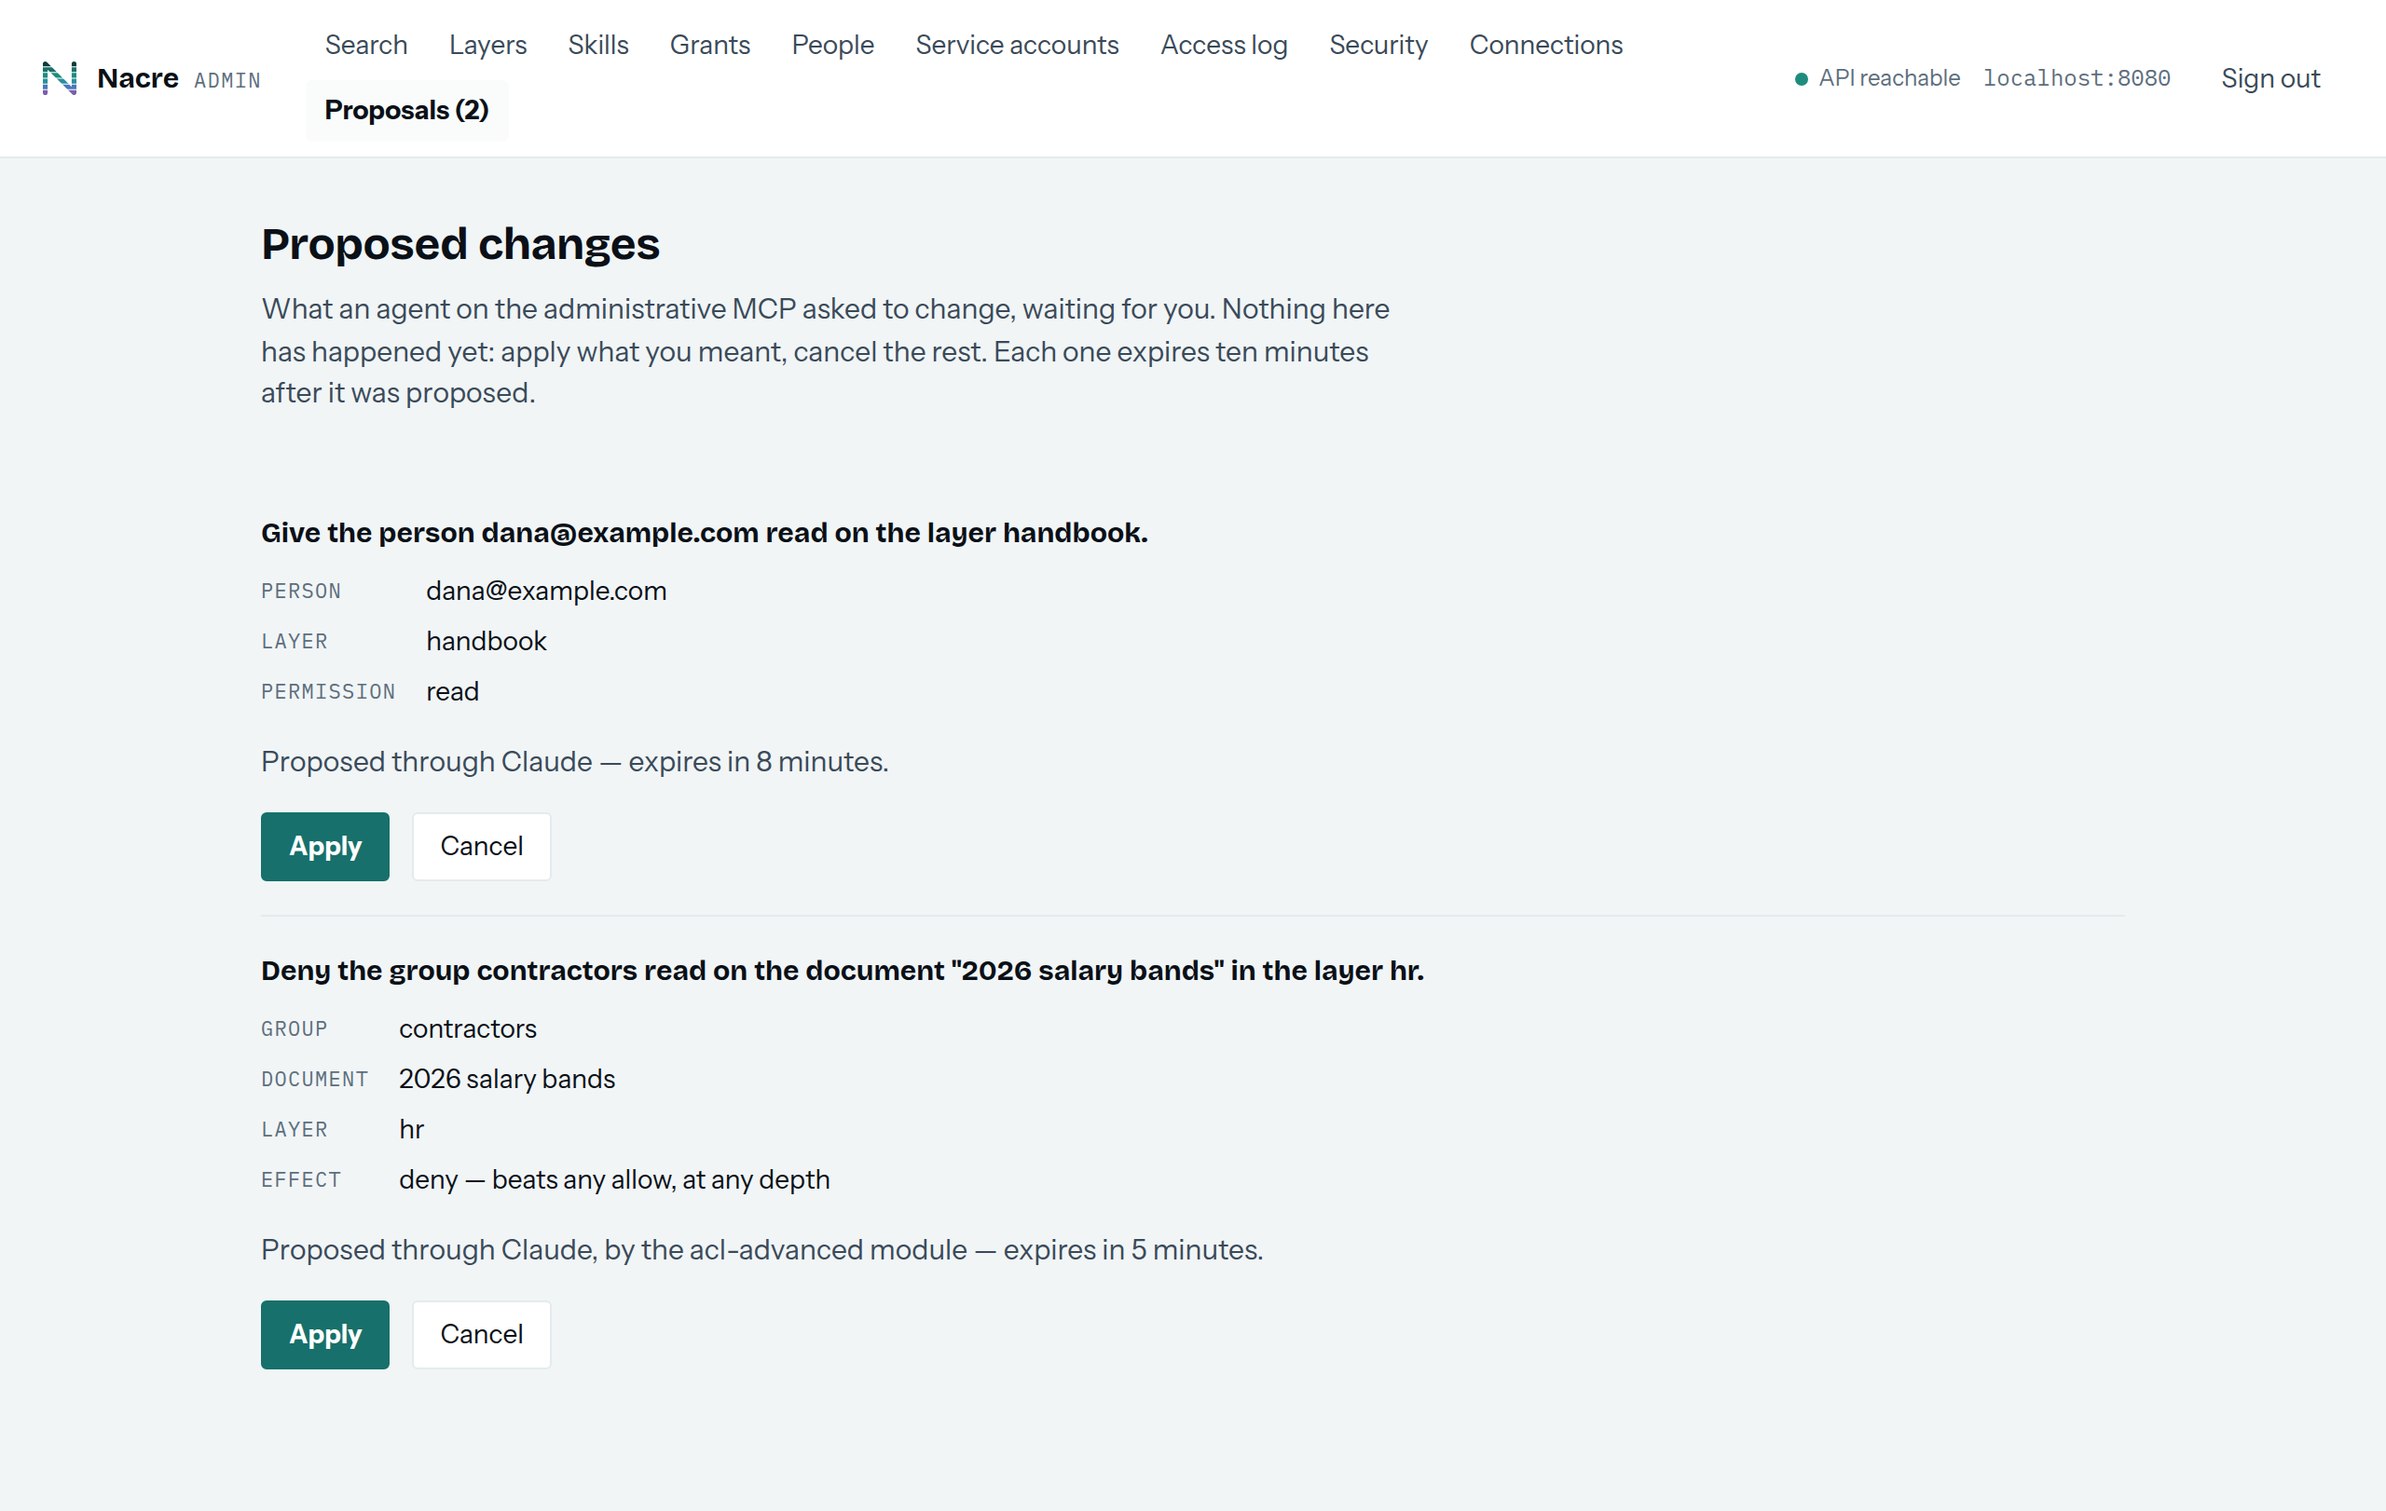
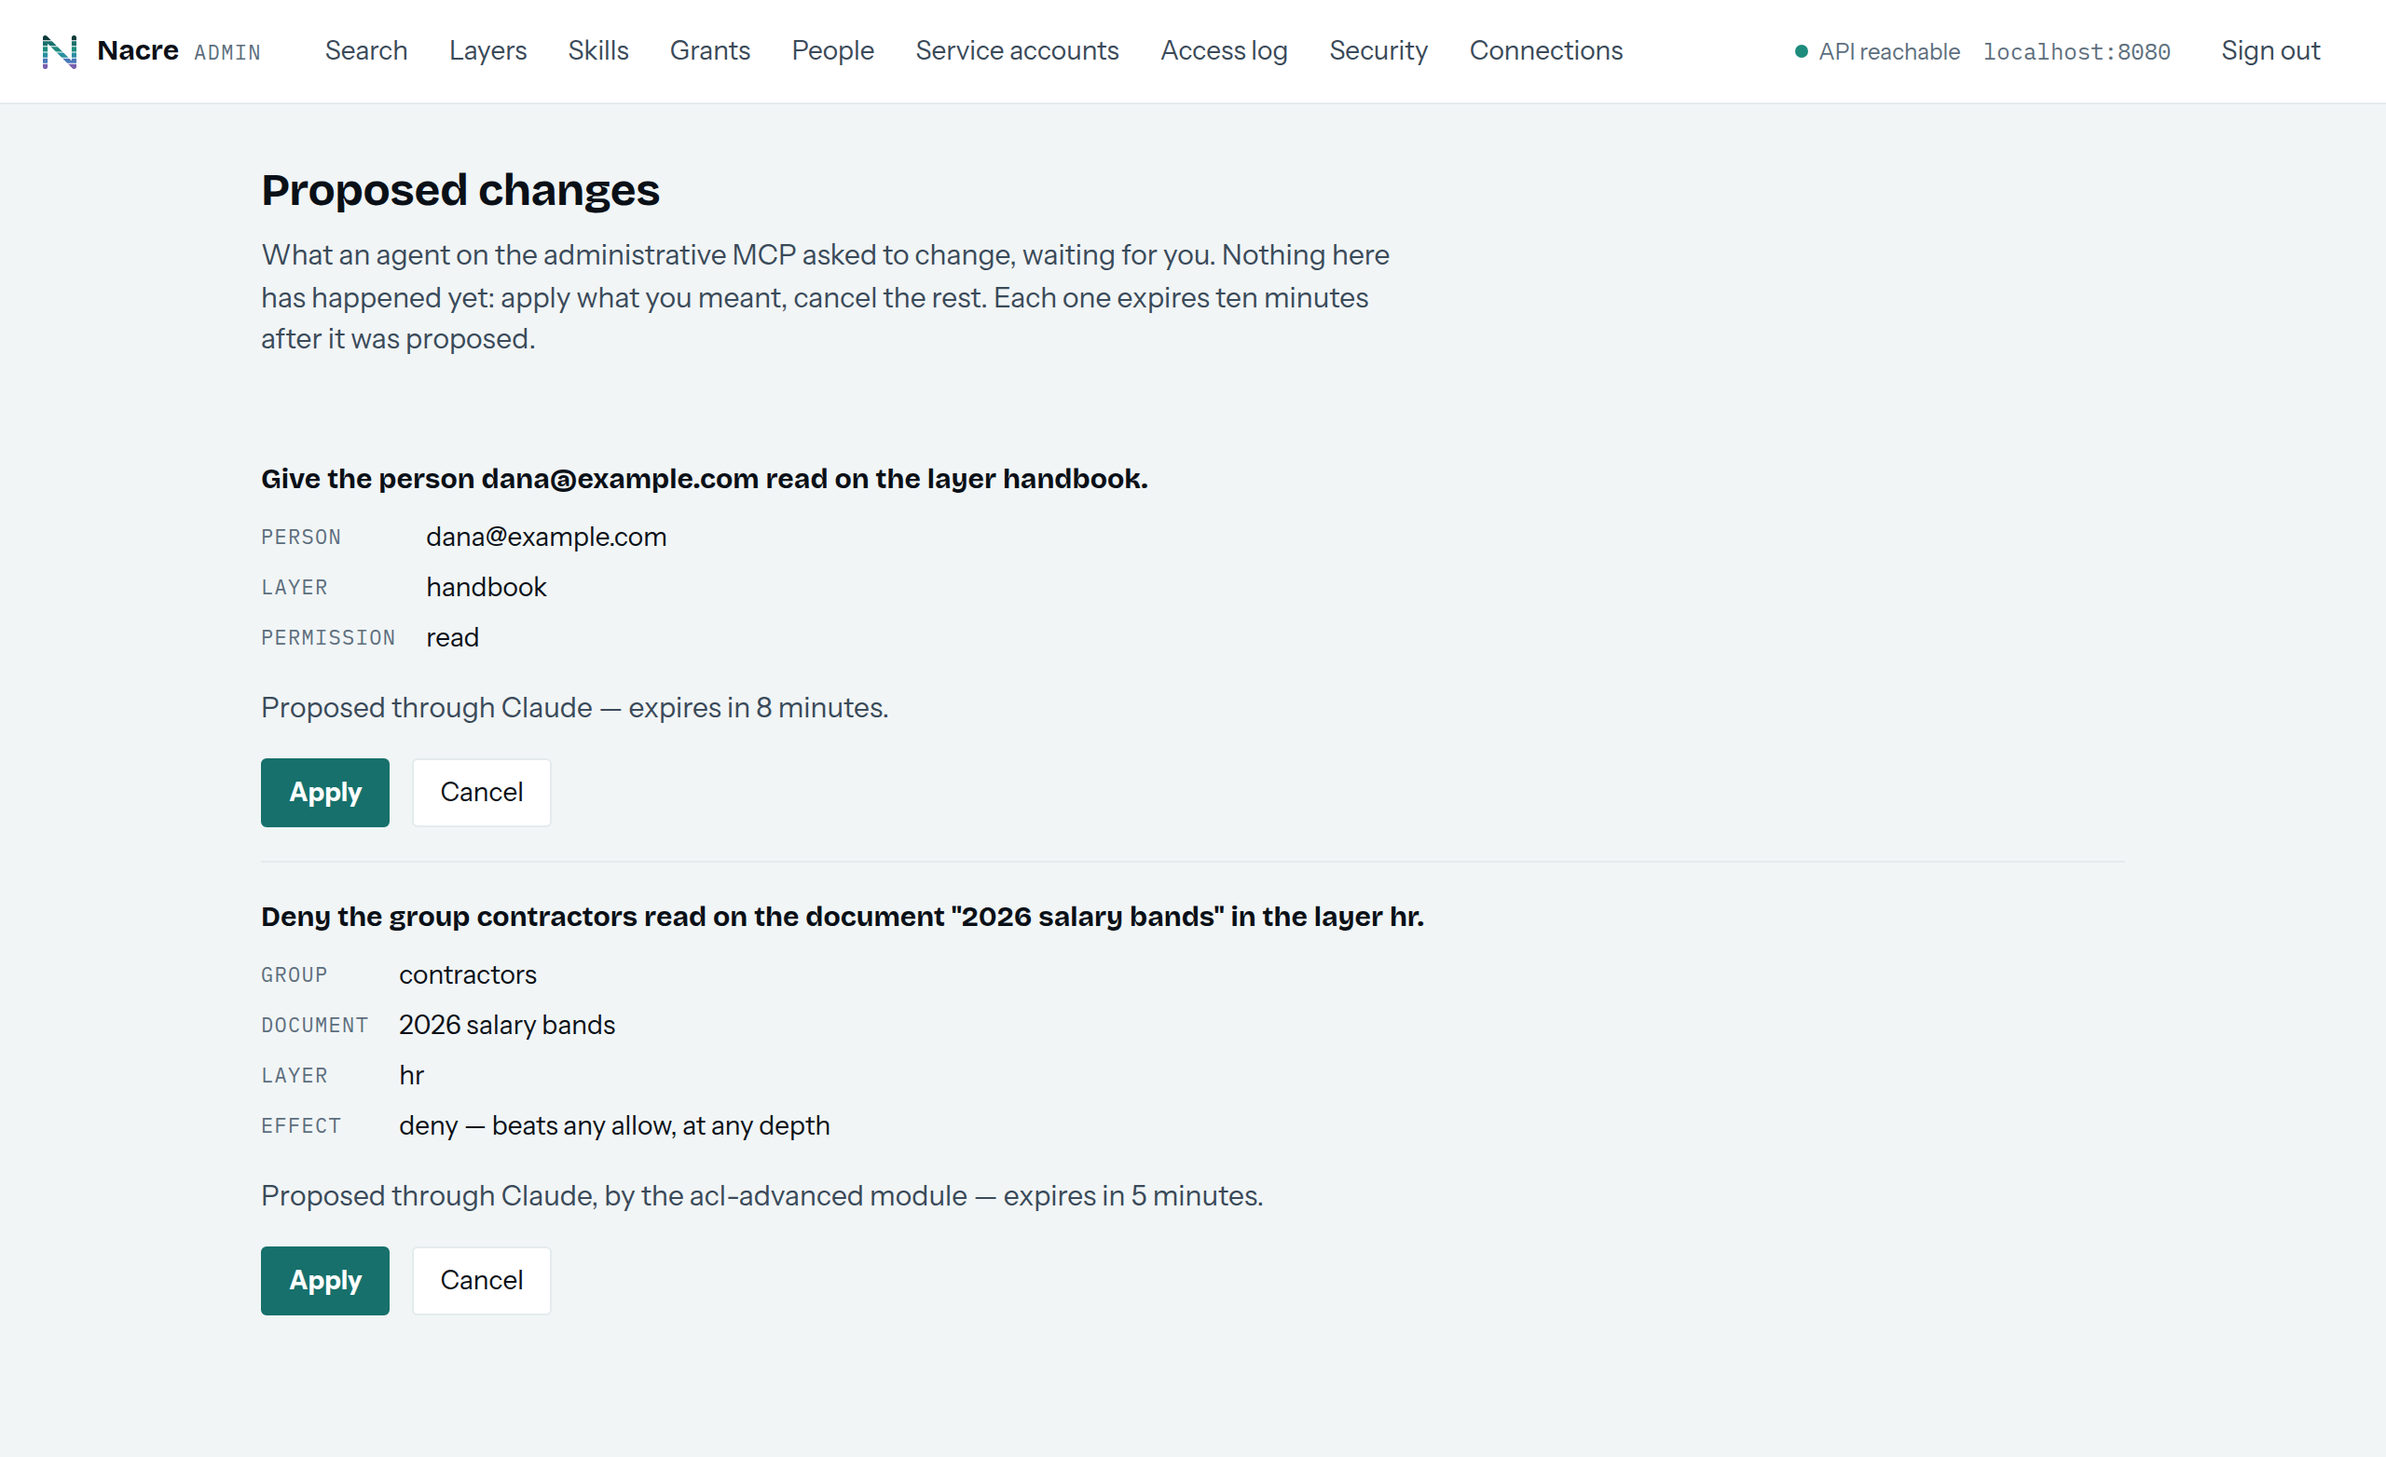
fix(admin): what is waiting is a line above the screen, not a nav item; no throw after sign-out
The Proposals item wrapped the nav at 1280 whether it was permanent,
shown only while something waited, or a masthead link. The screen has no
nav item now; while something waits, a line above every other screen
links to it.

Refreshing the count on every navigation threw after sign-out — client()
throws synchronously with no token, outside the promise's catch — which
the WebAuthn end-to-end run in CI caught as a page error. It asks only
with a token, inside a try, through one module-level listener.

Claude-Session: https://claude.ai/code/session_01VyoRZgaKQuJJSJ6iSPBHD7

diff --git a/packages/admin/src/index.ts b/packages/admin/src/index.ts
@@ -98,13 +98,11 @@ interface Route {
   readonly shows: (viewer: Viewer) => boolean
   readonly render: (root: HTMLElement, viewer: Viewer) => void
   /**
-   * Whether it has a nav item, when that is narrower than whether it may be
-   * opened. Absent is "whenever it shows". The current screen is always in the
-   * nav, so a screen opened by link still says where the reader is.
+   * Reachable, and never a nav item — not even while it is the screen open.
+   * The proposals screen, whose way in is the line `route` draws above every
+   * other screen while something waits.
    */
-  readonly inNav?: (viewer: Viewer) => boolean
-  /** The nav item's text, where it says more than the label — a count. */
-  readonly navLabel?: (viewer: Viewer) => string
+  readonly navless?: boolean
 }
 
 const anybody = (): boolean => true
@@ -189,17 +187,18 @@ const PERSONAL_ROUTES: readonly Route[] = [
   // other administrator sees it. The administrative MCP's own result names
   // this hash, so a client that renders no panel has somewhere to send them.
   //
-  // In the nav only while something is waiting. A proposal lives ten minutes,
-  // so an item that is there all the time is an empty screen nearly always —
-  // and it was the tenth item, which wrapped the nav onto a second line for
-  // every administrator to say nothing.
+  // Not in the nav at all. It was there permanently first — an empty screen
+  // nearly always, since a proposal lives ten minutes — and then only while
+  // something waited, and either way it was the tenth item and wrapped the nav
+  // onto a second line at 1280. A link in the masthead wrapped it too, by
+  // taking the room the nav had left. So what is waiting is a line above the
+  // screen, on every screen but this one — see `route`.
   {
     hash: '#/proposals',
     label: 'Proposals',
     render: (root) => void proposalsView(root),
     shows: administers,
-    inNav: (v: Viewer) => v.pendingProposals > 0,
-    navLabel: (v: Viewer) => `Proposals (${String(v.pendingProposals)})`,
+    navless: true,
   },
 ]
 
@@ -333,13 +332,13 @@ function route(main: HTMLElement, nav: HTMLElement, viewer: Viewer): void {
 
   clear(nav)
   for (const r of allowed) {
-    if (r !== current && r.inNav !== undefined && !r.inNav(viewer)) continue
+    if (r.navless === true) continue
     nav.append(
       h('a', {
         href: r.hash,
         class: r === current ? 'active' : '',
         ...(r === current ? { 'aria-current': 'page' } : {}),
-      }, r.navLabel !== undefined && r.inNav?.(viewer) !== false ? r.navLabel(viewer) : r.label),
+      }, r.label),
     )
   }
 
@@ -394,6 +393,23 @@ function route(main: HTMLElement, nav: HTMLElement, viewer: Viewer): void {
    * describes a correct arrangement, and this one describes an image that needs
    * changing.
    */
+  /*
+   * What an agent proposed and nobody has decided yet, said above every screen
+   * but the one that lists it. A proposal expires in ten minutes, so a person
+   * who does not see this in time loses it — which is the argument for a line
+   * on every screen over an item in a nav that is already full.
+   */
+  document.getElementById('waiting')?.remove()
+  const n = viewer.pendingProposals
+  if (n > 0 && current.hash !== '#/proposals') {
+    main.before(
+      h('p', { class: 'banner', id: 'waiting' },
+        n === 1 ? 'A change an agent proposed is waiting for you. ' : `${String(n)} changes an agent proposed are waiting for you. `,
+        h('a', { href: '#/proposals' }, n === 1 ? 'Review it' : 'Review them'),
+        ' — nothing happens until you apply.'),
+    )
+  }
+
   const broken = document.getElementById('extensions')
   broken?.remove()
   if (extensionProblem !== null) {
@@ -838,6 +854,10 @@ function signInView(): void {
   show(0)
 }
 
+/** What the Proposals screen's `nacre:proposals` event calls: the current session's refresh. */
+let onProposalsChanged: () => void = () => undefined
+window.addEventListener('nacre:proposals', () => onProposalsChanged())
+
 function start(): void {
   // Re-registered on every start so a session that ends mid-use puts the
   // sign-in screen back rather than leaving a console nothing can load into.
@@ -866,10 +886,20 @@ function start(): void {
   // nav that said "(2)" before Apply must not go on saying it after. Redrawn
   // only when the count moved. A failure is "nothing waiting": the screen is
   // still reachable by its link, and an older API answers 404 here.
+  //
+  // Asked only while signed in: signing out leaves this closure's listeners
+  // behind until the next `start`, and `client()` throws synchronously with no
+  // token — outside the promise, where `.catch` cannot see it, which surfaced
+  // as a page error on the sign-in screen.
   const refreshPending = (): void => {
-    if (!viewer.administers) return
-    void client()
-      .proposals.list()
+    if (!viewer.administers || readToken() === null) return
+    let asking: Promise<readonly unknown[]>
+    try {
+      asking = client().proposals.list()
+    } catch {
+      return
+    }
+    void asking
       .then((pending) => {
         if (pending.length === viewer.pendingProposals) return
         viewer = { ...viewer, pendingProposals: pending.length }
@@ -881,7 +911,10 @@ function start(): void {
     draw()
     refreshPending()
   }
-  window.addEventListener('nacre:proposals', refreshPending)
+  // A property rather than `addEventListener`, so a second `start` replaces
+  // the first one's listener instead of adding to it — the same reason the
+  // hash handler is `onhashchange`.
+  onProposalsChanged = refreshPending
 
   void client()
     .me()

diff --git a/CLAUDE.md b/CLAUDE.md
@@ -3444,10 +3444,21 @@ module cannot add a write that skips the person — and a proposal records its
 module, so a different module registering the same name later cannot be handed
 somebody else's proposal.
 
-The console grew a **Proposals** item that is in the nav only while something is
-waiting. It was there permanently first, and the screenshot pass showed the
-tenth item wrapping the nav onto a second line for every administrator to
-announce an empty screen.
+The console grew a **Proposals** screen and no nav item for it. A permanent
+item was an empty screen nearly always, and the screenshot pass showed it as the
+tenth item wrapping the nav onto a second line; an item shown only while
+something waited wrapped it too, and so did a link in the masthead, by taking
+the room the nav had left. What is waiting is a line above every other screen
+now — "2 changes an agent proposed are waiting for you. Review them" — which is
+also the more honest place for something that expires in ten minutes.
+
+Moving the count onto every navigation is what broke the WebAuthn end-to-end
+run in CI, and it was a real defect: after signing out, the old session's hash
+handler asked `client()` for proposals, `client()` throws synchronously with no
+token, and a `.catch` on the promise cannot see a throw that happens before the
+promise exists. The sign-in screen got a page error. It asks only with a token
+now, inside a `try`, and the event listener is one module-level property rather
+than one more `addEventListener` per sign-in.
 
 **Where to connect is on a screen**, which was asked for in those words. The MCP
 endpoint and the REST base lived in `docs/quickstart.md` and in an operator's

diff --git a/docs/mcp-admin.md b/docs/mcp-admin.md
@@ -157,7 +157,8 @@ get as far as a proposal on somebody's screen, and no further.
   the same person and nobody else: the API answers those routes for a person's
   own session and for nothing a connected application holds, so the model
   cannot reach that screen either. The result the model reads names the screen,
-  and the console's nav shows it only while something is waiting.
+  and while something is waiting the console says so in a line above every
+  screen.
 - There is **no "apply directly" setting.** It was specified as an
   organization's choice for clients without panels and dropped once the console
   could hold the button instead: every way of making that switch safe ends up

diff --git a/docs/upgrading.md b/docs/upgrading.md
@@ -298,7 +298,7 @@ recorded late.
 Eighteen write tools appear on the administrative MCP, each opening a change
 panel in a client that renders MCP Apps. **A client that does not** — a
 terminal — leaves the proposal on the console's new **Proposals** screen, which
-is in the nav only while something is waiting. Nothing changes for an
+a line above every other screen links to while something is waiting. Nothing changes for an
 ordinary `/mcp` connection, and an administrative connection approved before
 this release is offered the writes on its next `tools/list`: the consent screen
 always said changes were the person's to make, and they still are — pressing
